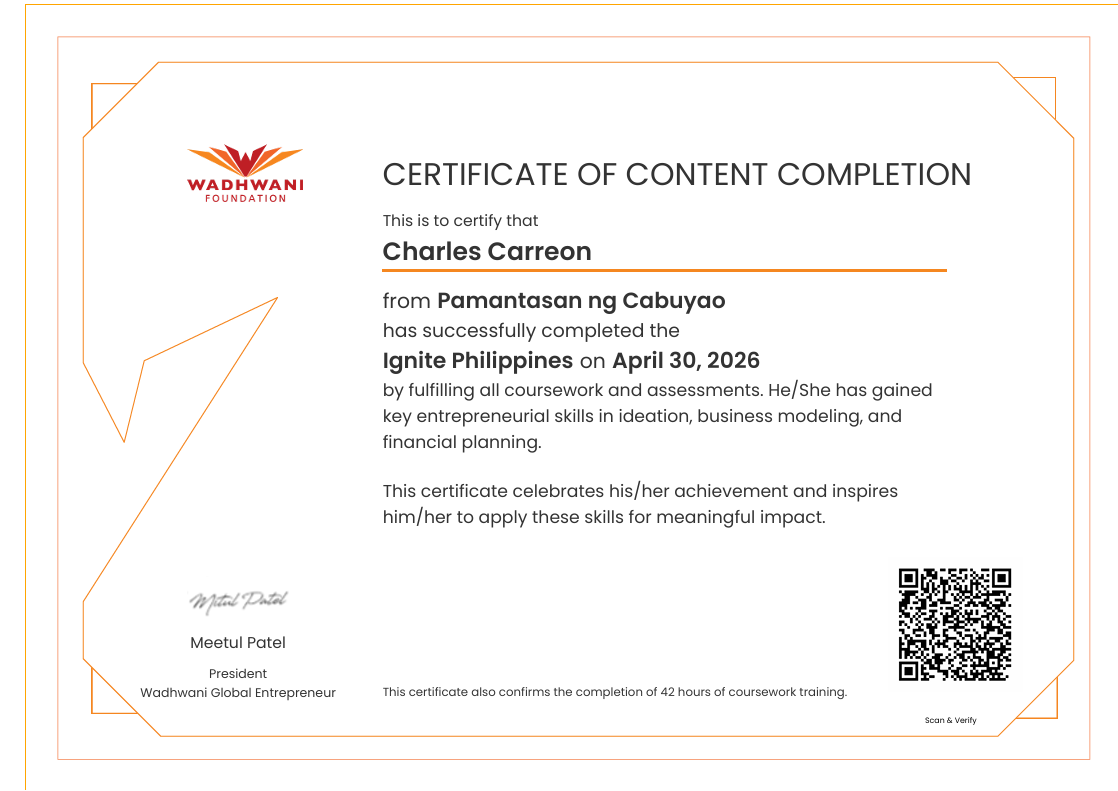
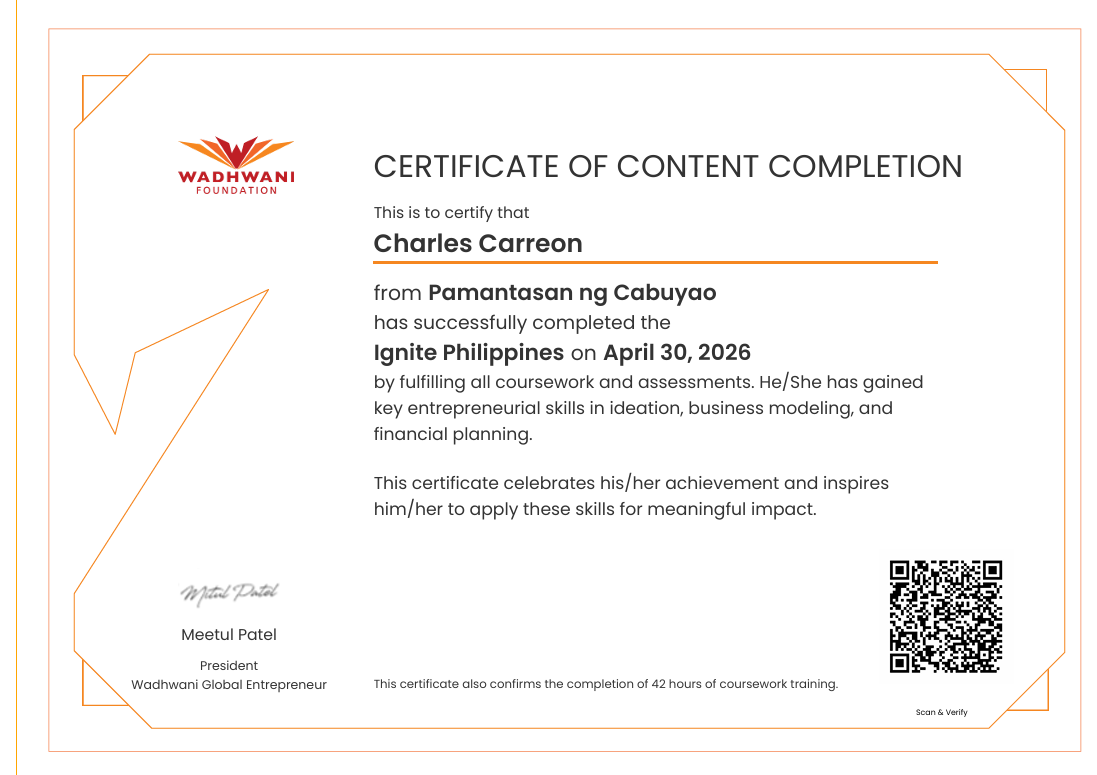
feat: highlight certificates on hover with a flush 16:9 image
- hovering a card lifts it, dims the others, and grows the image out to the card edges

- the whole card links to the certificate; the button shows on hover or focus, and stays visible on touch and without CSS

- fixed 16:9 image frame with no background, so any image size fits without stretching

- add the edited Wadhwani certificate images

diff --git a/styles.css b/styles.css
@@ -1751,23 +1751,23 @@ html.dialog-capable .project-dialog:not([open]) {
 }
 
 .cert-card {
+    --cert-pad: 0.9rem;
     display: flex;
     flex-direction: column;
-    padding: 0.9rem;
+    padding: var(--cert-pad);
     border-radius: 0.75rem;
     background-color: var(--surface-2);
     border-color: color-mix(in srgb, var(--accent) 28%, var(--border));
 }
 
 .cert-thumb-wrap {
-    display: flex;
-    align-items: center;
-    justify-content: center;
-    height: 8rem;
-    padding: 0.35rem;
+    /* The frame is always the same 16:9 shape, whatever the image size. The
+       image fills it without stretching (any extra is trimmed) and the frame
+       has no background, padding or border of its own. */
+    aspect-ratio: 16 / 9;
     overflow: hidden;
     border-radius: 0.5rem;
-    background-color: var(--surface);
+    transition: margin 0.25s ease, border-radius 0.25s ease;
 }
 
 .cert-thumb {
@@ -1775,18 +1775,12 @@ html.dialog-capable .project-dialog:not([open]) {
     width: 100%;
     height: 100%;
     object-fit: cover;
-    object-position: center top;
+    object-position: center;
 }
 
 /* Homepage certificate cards use the same inset frame as featured projects. */
 .cert-grid--home .cert-card {
-    padding: 0.85rem;
-}
-
-.cert-grid--home .cert-thumb-wrap {
-    padding: 0.25rem;
-    border: 1px solid var(--border);
-    border-radius: 0.6rem;
+    --cert-pad: 0.85rem;
 }
 
 .cert-card h3 {
@@ -1832,20 +1826,110 @@ html.dialog-capable .project-dialog:not([open]) {
     display: inline-flex;
     align-items: center;
     justify-content: center;
-    background-color: var(--accent);
-    color: var(--accent-contrast);
-    border: 1px solid transparent;
+    min-height: 1.625rem;
+    background-color: transparent;
+    color: var(--accent);
+    border: 1px solid color-mix(in srgb, var(--accent) 55%, transparent);
     border-radius: 999px;
-    padding: 0.35rem 0.9rem;
-    font-size: 0.85rem;
+    padding: 0.15rem 0.75rem;
+    font-size: 0.8rem;
     font-weight: 600;
+    line-height: 1.2;
+    text-decoration: none;
+    transition: opacity 0.18s ease, transform 0.18s ease, background-color 0.15s ease, border-color 0.15s ease;
+}
+
+.cert-more a:hover,
+.cert-more a:focus-visible {
+    background-color: color-mix(in srgb, var(--accent) 14%, transparent);
+    border-color: var(--accent);
+    color: var(--hover);
     text-decoration: none;
 }
 
-.cert-more a:hover {
-    background-color: var(--accent-strong);
-    color: var(--accent-contrast);
-    border-color: transparent;
+/* The whole card is one link: the existing button link is stretched over
+   the card. This is plain CSS, so it needs no script, and with no CSS the
+   button is simply an ordinary visible link. */
+.cert-card {
+    position: relative;
+    transition: transform 0.2s ease, border-color 0.2s ease, box-shadow 0.2s ease, opacity 0.2s ease;
+}
+
+.cert-more a::after {
+    content: "";
+    position: absolute;
+    inset: 0;
+}
+
+.cert-thumb {
+    transition: transform 0.3s ease;
+}
+
+/* Highlight one certificate on keyboard focus too. The button itself always
+   shows on focus (see below), so a browser without :has() still reveals it. */
+.cert-card:has(a:focus-visible) {
+    transform: translateY(-0.25rem);
+    border-color: var(--accent);
+    box-shadow: 0 0 0 1px color-mix(in srgb, var(--accent) 45%, transparent),
+        0 8px 28px color-mix(in srgb, var(--accent) 22%, transparent);
+}
+
+.cert-card:has(a:focus-visible) .cert-thumb {
+    transform: scale(1.04);
+}
+
+.cert-card:has(a:focus-visible) .cert-thumb-wrap {
+    margin: calc(var(--cert-pad) * -1) calc(var(--cert-pad) * -1) calc(var(--cert-pad) * -0.125);
+    border-radius: calc(0.75rem - 1px) calc(0.75rem - 1px) 0 0;
+}
+
+.cert-grid:has(.cert-card a:focus-visible) .cert-card:not(:has(a:focus-visible)) {
+    opacity: 0.65;
+}
+
+/* Pointer devices: the button stays out of sight until the card is hovered
+   or focused. Its space is reserved, so the cards do not jump. Touch screens
+   and anything without hover keep the quiet button visible. */
+@media (hover: hover) and (pointer: fine) {
+    .cert-card:hover {
+        transform: translateY(-0.25rem);
+        border-color: var(--accent);
+        box-shadow: 0 0 0 1px color-mix(in srgb, var(--accent) 45%, transparent),
+            0 8px 28px color-mix(in srgb, var(--accent) 22%, transparent);
+        cursor: pointer;
+    }
+
+    .cert-card:hover .cert-thumb {
+        transform: scale(1.04);
+    }
+
+    /* The image grows out to the card's top and side edges. The negative
+       margins equal the card padding. The frame keeps its 16:9 shape, so it
+       grows 1.125x the padding in height; the bottom margin pulls that back
+       up so the text below does not move. */
+    .cert-card:hover .cert-thumb-wrap {
+        margin: calc(var(--cert-pad) * -1) calc(var(--cert-pad) * -1) calc(var(--cert-pad) * -0.125);
+        border-radius: calc(0.75rem - 1px) calc(0.75rem - 1px) 0 0;
+    }
+
+    .cert-more a {
+        opacity: 0;
+        transform: translateY(0.35rem);
+    }
+
+    .cert-card:hover .cert-more a,
+    .cert-more a:focus-visible {
+        opacity: 1;
+        transform: none;
+    }
+}
+
+/* Dim the other certificates while one is hovered. Kept as its own rule so a
+   browser without :has() only loses this dimming. */
+@media (hover: hover) and (pointer: fine) {
+    .cert-grid:has(.cert-card:hover) .cert-card:not(:hover) {
+        opacity: 0.65;
+    }
 }
 
 /* ---------- Footer ---------- */
@@ -2153,6 +2237,17 @@ html.dialog-capable .project-dialog:not([open]) {
 
     .project:hover,
     .project:focus-within {
+        transform: none;
+    }
+
+    .cert-card:hover,
+    .cert-card:hover .cert-thumb,
+    .cert-more a {
+        transform: none;
+    }
+
+    .cert-card:has(a:focus-visible),
+    .cert-card:has(a:focus-visible) .cert-thumb {
         transform: none;
     }
 }

diff --git a/skills.html b/skills.html
@@ -214,7 +214,7 @@
                         <span class="cert-tag">Financial Management</span>
                     </div>
                     <p class="cert-more"><a href="https://web.certificate.wfglobal.org/en/certificate?certificateId=6a04850b8b44bd81aa7138a6" target="_blank"
-                        rel="noreferrer">View certificate</a></p>
+                        rel="noreferrer">View certificate<span class="visually-hidden">: Proficiency Certificate</span></a></p>
                 </div>
             </article>
 
@@ -230,7 +230,7 @@
                         <span class="cert-tag">Financial Management</span>
                     </div>
                     <p class="cert-more"><a href="https://web.certificate.wfglobal.org/en/certificate?certificateId=69f36a6cb36cdf49a0e65cd6" target="_blank"
-                        rel="noreferrer">View certificate</a></p>
+                        rel="noreferrer">View certificate<span class="visually-hidden">: Certificate of Content Completion</span></a></p>
                 </div>
             </article>
 
@@ -247,7 +247,7 @@
                         <span class="cert-tag">C2 Proficient</span>
                     </div>
                     <p class="cert-more"><a href="https://cert.efset.org/r9hm2w" target="_blank"
-                        rel="noreferrer">View certificate</a></p>
+                        rel="noreferrer">View certificate<span class="visually-hidden">: EF SET English Certificate, 78/100</span></a></p>
                 </div>
             </article>
 
@@ -263,7 +263,7 @@
                         <span class="cert-tag">Web Development</span>
                     </div>
                     <p class="cert-more"><a href="https://courses.buri.io/view/user/certificate/1fe48931-54ce-41f7-97d3-73d42e5f85e1/pdf" target="_blank"
-                        rel="noreferrer">View certificate</a></p>
+                        rel="noreferrer">View certificate<span class="visually-hidden">: Principles of Web Development</span></a></p>
                 </div>
             </article>
 
@@ -279,7 +279,7 @@
                         <span class="cert-tag">Python</span>
                     </div>
                     <p class="cert-more"><a href="https://courses.buri.io/view/user/certificate/d388ef03-62b6-4aa3-8420-b3363871e914/pdf" target="_blank"
-                        rel="noreferrer">View certificate</a></p>
+                        rel="noreferrer">View certificate<span class="visually-hidden">: Programming for Beginners Using Python</span></a></p>
                 </div>
             </article>
         </div>

diff --git a/homepage.template.html b/homepage.template.html
@@ -381,7 +381,7 @@
                                     <span class="cert-tag">Financial Management</span>
                                 </div>
                                 <p class="cert-more"><a href="https://web.certificate.wfglobal.org/en/certificate?certificateId=6a04850b8b44bd81aa7138a6"
-                                    target="_blank" rel="noreferrer">View certificate</a></p>
+                                    target="_blank" rel="noreferrer">View certificate<span class="visually-hidden">: Proficiency Certificate</span></a></p>
                             </div>
                         </article>
                         <article class="card cert-card">
@@ -396,7 +396,7 @@
                                     <span class="cert-tag">Financial Management</span>
                                 </div>
                                 <p class="cert-more"><a href="https://web.certificate.wfglobal.org/en/certificate?certificateId=69f36a6cb36cdf49a0e65cd6"
-                                    target="_blank" rel="noreferrer">View certificate</a></p>
+                                    target="_blank" rel="noreferrer">View certificate<span class="visually-hidden">: Certificate of Content Completion</span></a></p>
                             </div>
                         </article>
                         <article class="card cert-card">
@@ -412,7 +412,7 @@
                                     <span class="cert-tag">C2 Proficient</span>
                                 </div>
                                 <p class="cert-more"><a href="https://cert.efset.org/r9hm2w" target="_blank"
-                                    rel="noreferrer">View certificate</a></p>
+                                    rel="noreferrer">View certificate<span class="visually-hidden">: EF SET English Certificate, 78/100</span></a></p>
                             </div>
                         </article>
                     </div>
